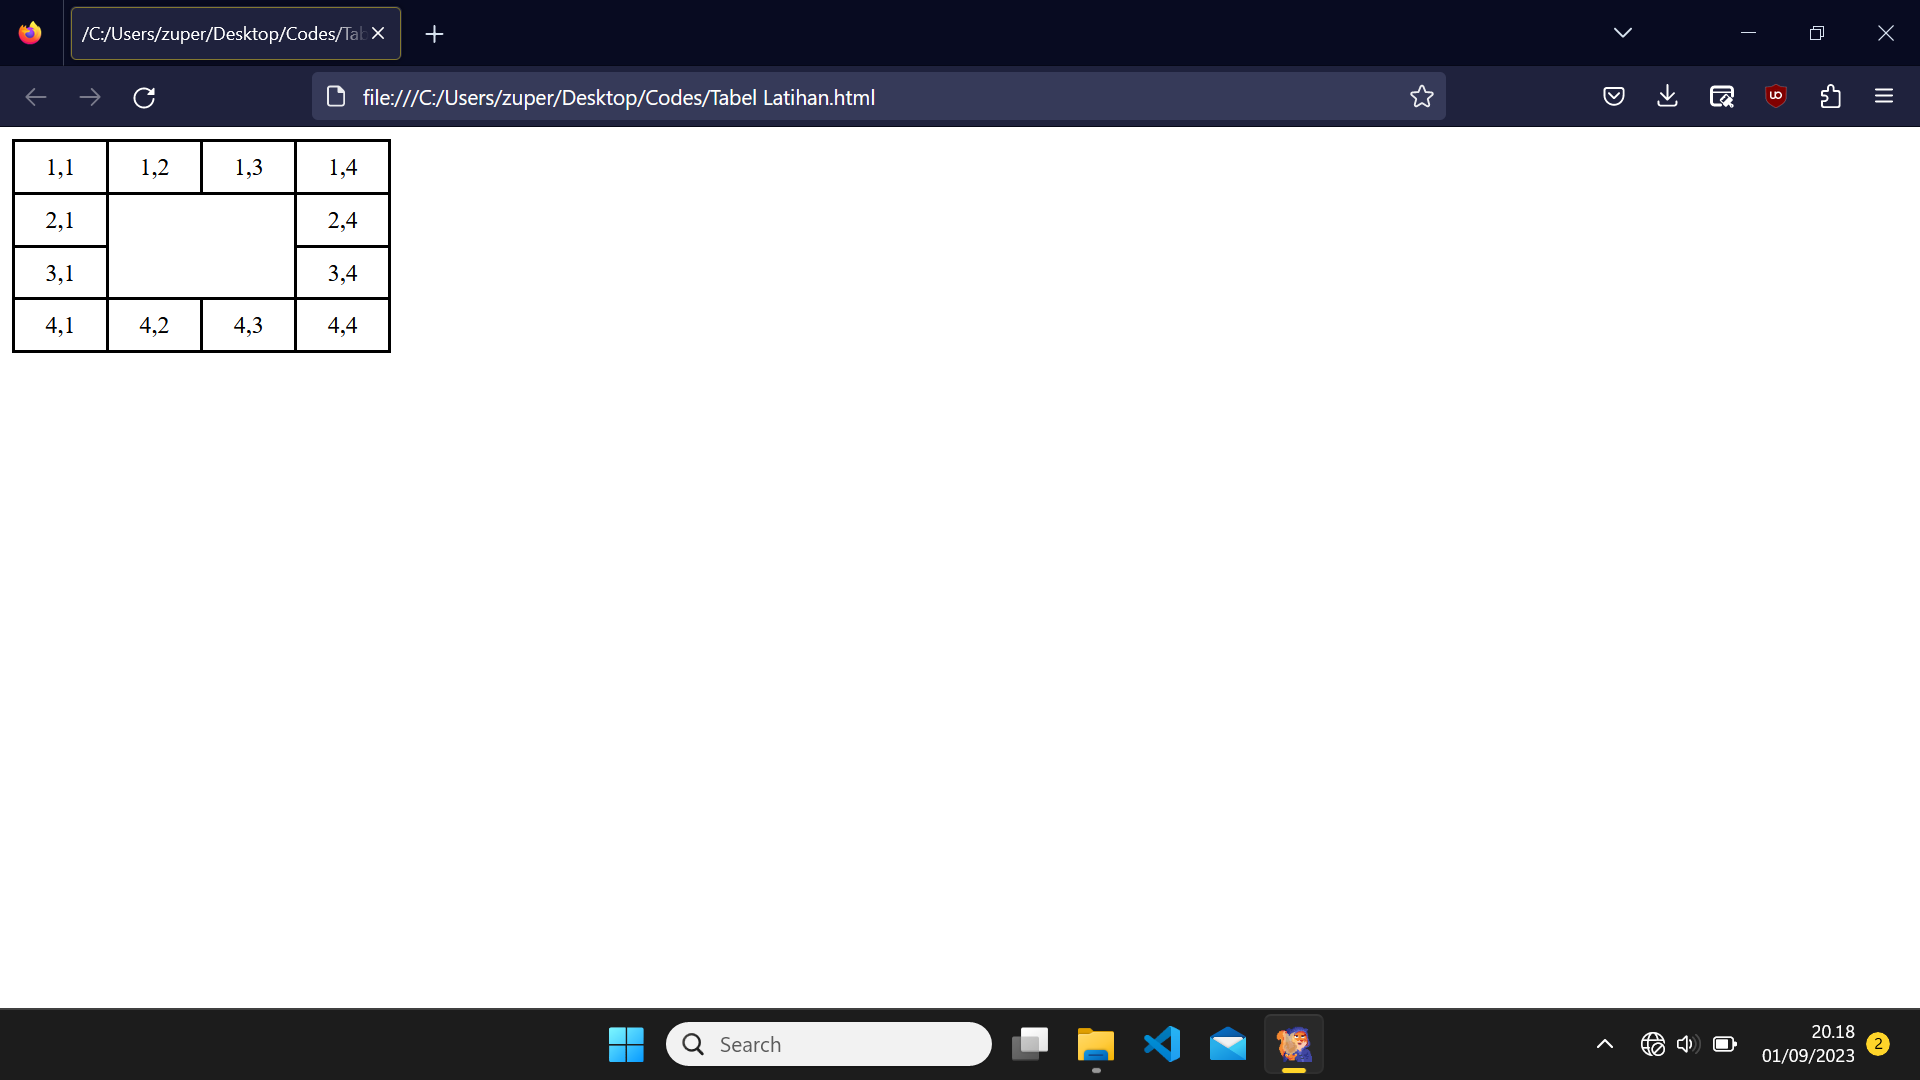
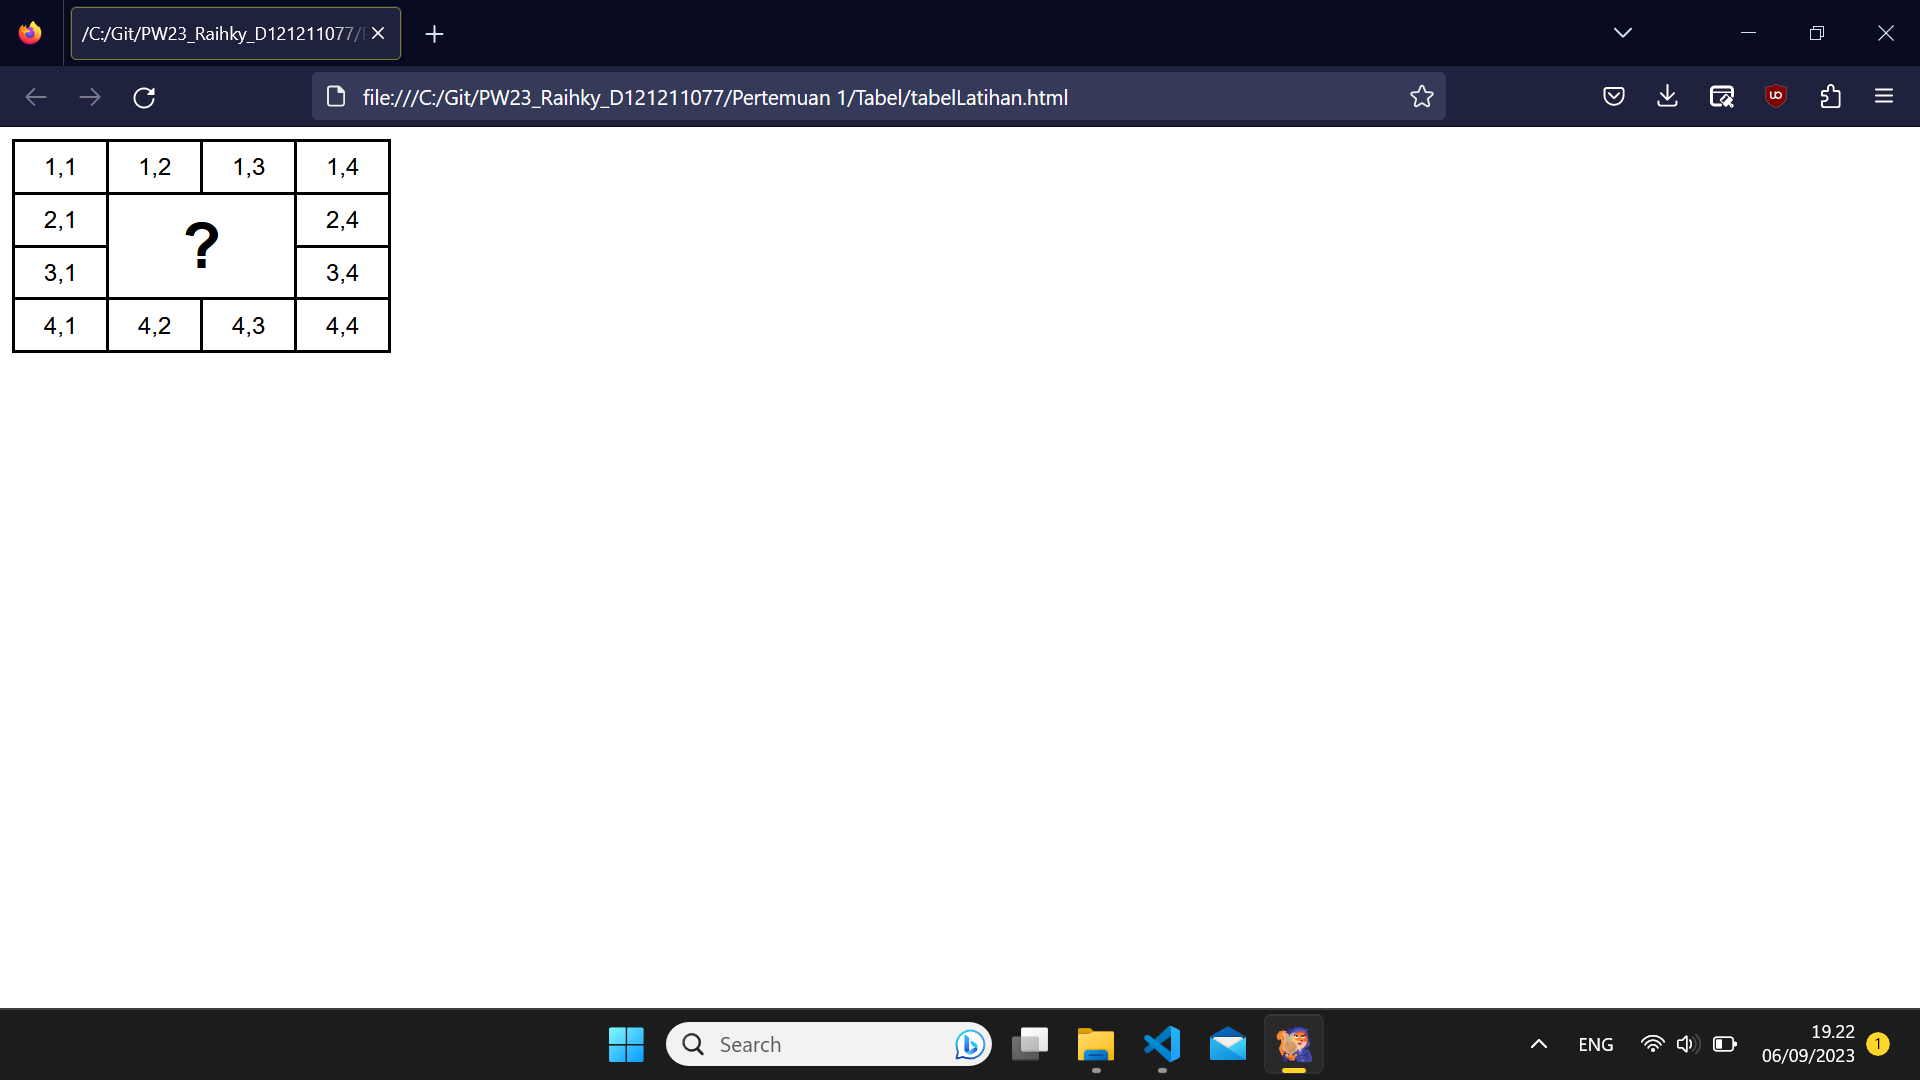
Update Table

diff --git a/Pertemuan 1/Tabel/tabelLatihan.html b/Pertemuan 1/Tabel/tabelLatihan.html
@@ -7,6 +7,7 @@
             text-align: center;
             width: 20%;
             height: 25%;
+            font-family: sans-serif;
         }
     </style>
 </head>
@@ -21,7 +22,7 @@
         </tr>
         <tr>
             <td>2,1</td>
-            <td colspan="2", rowspan="2"></td>
+            <td colspan="2" rowspan="2" style="font-size: 42px; font-weight: bold;">?</td>
             <td>2,4</td>
         </tr>
         <tr>
